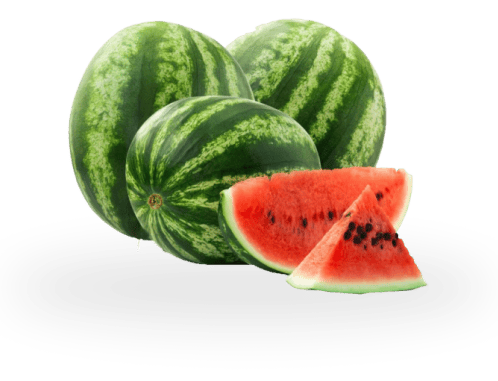
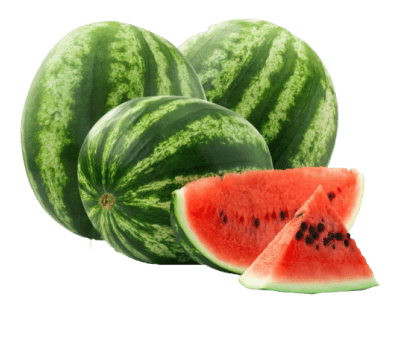
image

diff --git a/src/partials/hero.html b/src/partials/hero.html
@@ -35,9 +35,11 @@
                                 ../image/hero.image/watermelon_@1x.png 2x"
                         src="../image/hero.image/watermelon.png"
                         alt="refreshing and juicy watermelon"
-                        width="239"
+                        width="200"
                         height="172"
                     >
+
+                    
                     <p class="hero-watermelon-text">Refreshing and juicy, watermelon is the perfect summer treat and a great source of hydration</p>
                 </div>
             </div>
@@ -50,10 +52,10 @@
                                 ../image/hero.image/strawberry_@2x.png 2x"
                         src="../image/hero.image/strawberry.png"
                         alt="refreshing and juicy watermelon"
-                        width="239"
-                        height="187"
+                        width="162"
+                        height="185"
                     >
-                        <p class="hero-strawberry-text">Sweet and juicy, strawberries are packed with vitamin C and antioxidants, making them a delicious and healthy snack</p>
+                        <p class="hero-strawberry-text">Sweet and juicy, <br /> strawberries are packed <br /> with vitamin C and <br /> antioxidants, making them <br /> a delicious and healthy <br /> snack</p>
                 </div>
             
                 <ul>

diff --git a/src/css/hero.css b/src/css/hero.css
@@ -194,7 +194,7 @@
 .hero-watermelon-title {
     text-align: center;
     padding-top: 28px;
-    margin-bottom: 61px;
+    padding-bottom: 61px;
 
     font-style: normal;
     font-weight: 400;
@@ -250,7 +250,8 @@
 .hero-strawberry-title {
     text-align: center;
     padding-top: 28px;
-    margin-bottom: 19px;
+    padding-bottom: 19px;
+           
 
     font-style: normal;
     font-weight: 400;
@@ -263,14 +264,13 @@
 }
 
 .hero-strawberry-image {
-    margin-right: auto;
     margin-left: auto;
-    margin-bottom: 15px;
-
+    margin-right: auto;
+    margin-bottom: 17px;
 }
 
 .hero-strawberry-text {
-    width: 163px;
+    width: 170px;
     text-align: center;
     margin-left: auto;
     margin-right: auto;
